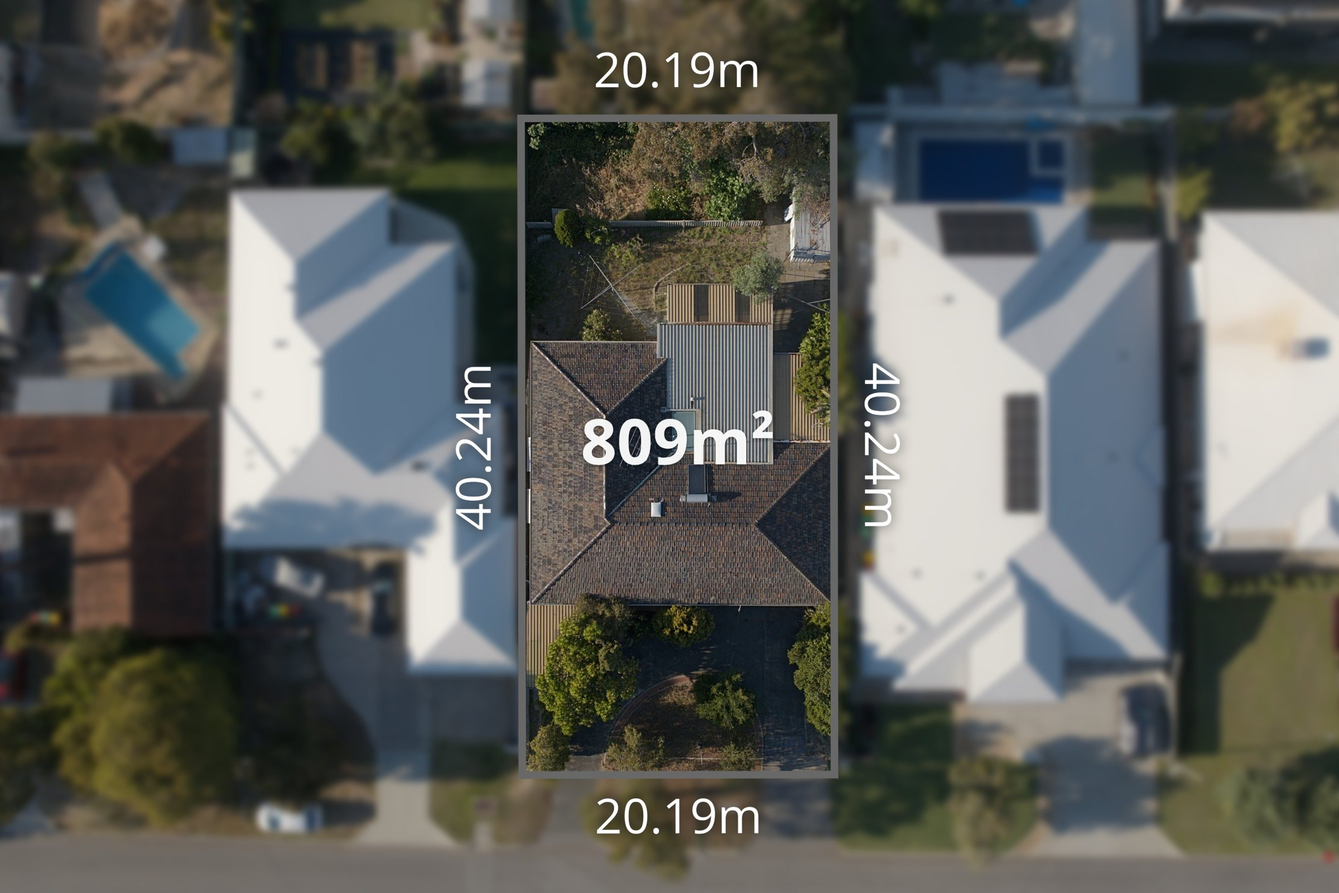
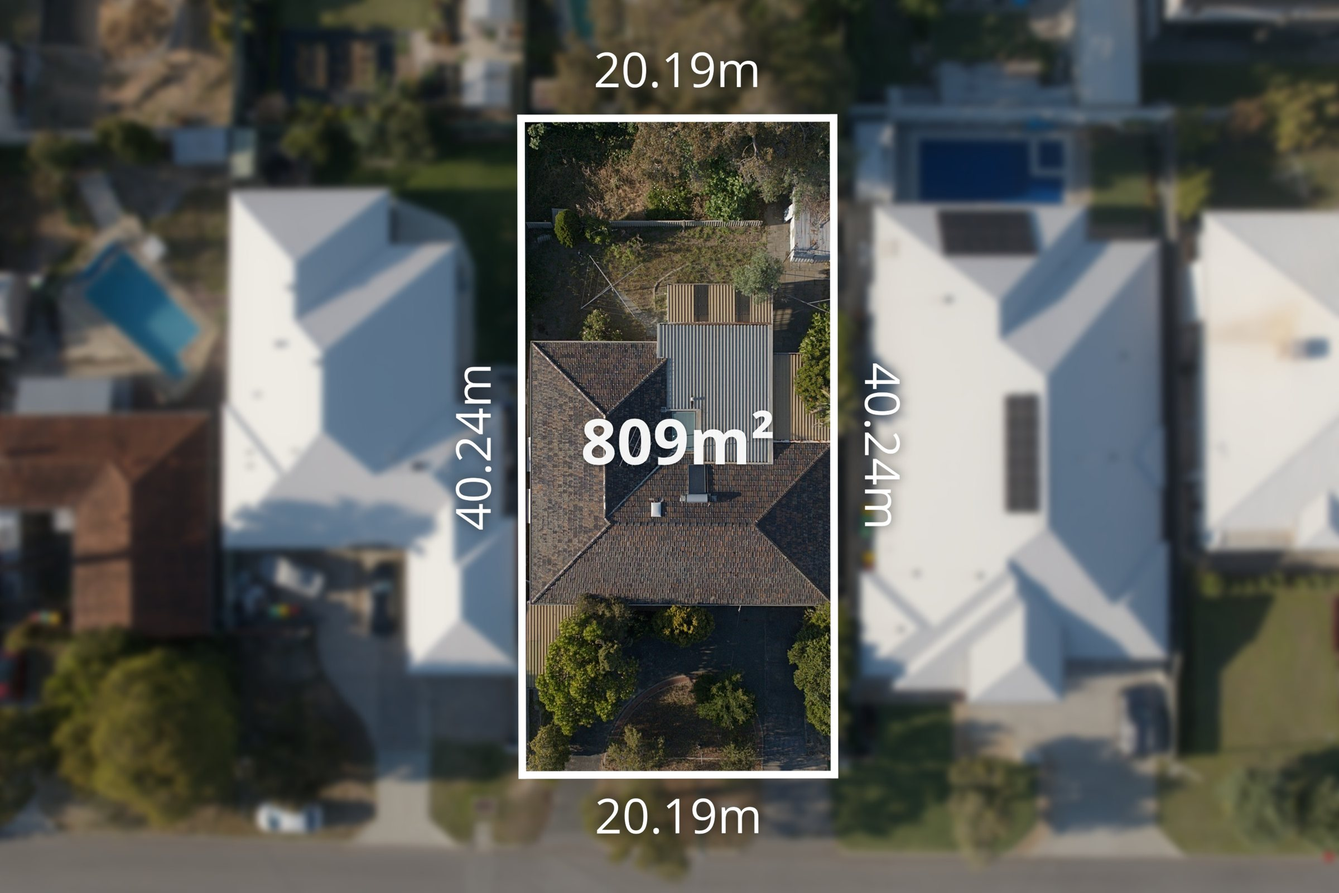
47 Attra St: both top-downs (road at bottom + wide) first, Simple style
Claude-Session: https://claude.ai/code/session_01A5qGg2LnJXxgSHoMQFvEEG

Changed region(s): [[0.375, 0.125, 0.625, 0.875]]

diff --git a/aerials/27-oct-2026/index.html b/aerials/27-oct-2026/index.html
@@ -5,4 +5,4 @@ body{margin:0;background:var(--bg);color:var(--fg);font:15px/1.45 system-ui,-app
 header,section{max-width:1400px;margin:auto;padding:18px 16px}h1{font-size:20px;margin:0}h2{font-size:17px;margin:0}header p,section p{color:var(--mut);margin:4px 0 0}
 .ed{margin-left:10px;color:var(--acc);font-weight:600;text-decoration:none}a{color:var(--acc)}
 .chk{margin-top:10px}.chk summary{cursor:pointer;color:var(--mut);font-weight:600}.chk iframe{width:100%;height:420px;border:0;border-radius:6px;margin-top:6px;background:#111}.g{display:grid;grid-template-columns:repeat(auto-fill,minmax(280px,1fr));gap:8px;margin-top:10px}.g img{width:100%;display:block;border-radius:4px}</style></head>
-<body><header><h1>Drone edits — Tue 27 Oct 2026</h1><p>Tap a photo for full size. <b>Edit</b> opens the job in the <a href="/pins/">editor</a> with all its pins and settings.</p></header><section><h2>218 North Beach Dr, Tuart Hill</h2><p>Stephanie Briers · Professionals · 13 photos <a class="ed" href="/pins/?open=27-oct-2026/218_north_beach_dr">Edit</a></p><div class="g"><a href="218_north_beach_dr/dji_fly_20261027_150818_0904_1793084705926_photo.jpg?v=1793133531" target="_blank"><img loading="lazy" src="218_north_beach_dr/t/dji_fly_20261027_150818_0904_1793084705926_photo.jpg?v=1793133531" alt=""></a><a href="218_north_beach_dr/dji_fly_20261027_150852_0906_1793084703012_photo.jpg?v=1793133531" target="_blank"><img loading="lazy" src="218_north_beach_dr/t/dji_fly_20261027_150852_0906_1793084703012_photo.jpg?v=1793133531" alt=""></a><a href="218_north_beach_dr/dji_fly_20261027_150910_0907_1793084701634_photo.jpg?v=1793133531" target="_blank"><img loading="lazy" src="218_north_beach_dr/t/dji_fly_20261027_150910_0907_1793084701634_photo.jpg?v=1793133531" alt=""></a><a href="218_north_beach_dr/dji_fly_20261027_150938_0908_1793084700212_photo.jpg?v=1793133531" target="_blank"><img loading="lazy" src="218_north_beach_dr/t/dji_fly_20261027_150938_0908_1793084700212_photo.jpg?v=1793133531" alt=""></a><a href="218_north_beach_dr/dji_fly_20261027_150948_0909_1793084698807_photo.jpg?v=1793133531" target="_blank"><img loading="lazy" src="218_north_beach_dr/t/dji_fly_20261027_150948_0909_1793084698807_photo.jpg?v=1793133531" alt=""></a><a href="218_north_beach_dr/dji_fly_20261027_151000_0910_1793084697396_photo.jpg?v=1793133531" target="_blank"><img loading="lazy" src="218_north_beach_dr/t/dji_fly_20261027_151000_0910_1793084697396_photo.jpg?v=1793133531" alt=""></a><a href="218_north_beach_dr/dji_fly_20261027_151032_0911_1793084695909_photo.jpg?v=1793133531" target="_blank"><img loading="lazy" src="218_north_beach_dr/t/dji_fly_20261027_151032_0911_1793084695909_photo.jpg?v=1793133531" alt=""></a><a href="218_north_beach_dr/dji_fly_20261027_151100_0912_1793084694451_photo.jpg?v=1793133531" target="_blank"><img loading="lazy" src="218_north_beach_dr/t/dji_fly_20261027_151100_0912_1793084694451_photo.jpg?v=1793133531" alt=""></a><a href="218_north_beach_dr/dji_fly_20261027_151114_0913_1793084693051_photo.jpg?v=1793133531" target="_blank"><img loading="lazy" src="218_north_beach_dr/t/dji_fly_20261027_151114_0913_1793084693051_photo.jpg?v=1793133531" alt=""></a><a href="218_north_beach_dr/dji_fly_20261027_151128_0914_1793084691646_photo.jpg?v=1793133531" target="_blank"><img loading="lazy" src="218_north_beach_dr/t/dji_fly_20261027_151128_0914_1793084691646_photo.jpg?v=1793133531" alt=""></a><a href="218_north_beach_dr/dji_fly_20261027_151138_0915_1793084690227_photo.jpg?v=1793133531" target="_blank"><img loading="lazy" src="218_north_beach_dr/t/dji_fly_20261027_151138_0915_1793084690227_photo.jpg?v=1793133531" alt=""></a><a href="218_north_beach_dr/dji_fly_20261027_151152_0916_1793084688823_photo.jpg?v=1793133531" target="_blank"><img loading="lazy" src="218_north_beach_dr/t/dji_fly_20261027_151152_0916_1793084688823_photo.jpg?v=1793133531" alt=""></a><a href="218_north_beach_dr/dji_fly_20261027_151200_0917_1793084687391_photo.jpg?v=1793133531" target="_blank"><img loading="lazy" src="218_north_beach_dr/t/dji_fly_20261027_151200_0917_1793084687391_photo.jpg?v=1793133531" alt=""></a></div></section><section><h2>41 St Kilda Rd, Balga</h2><p>Emma Scharf · Professionals · 9 photos <a class="ed" href="/pins/?open=27-oct-2026/41_st_kilda_rd">Edit</a></p><div class="g"><a href="41_st_kilda_rd/dji_fly_20261027_120152_0892_1793084725908_photo.jpg?v=1793133538" target="_blank"><img loading="lazy" src="41_st_kilda_rd/t/dji_fly_20261027_120152_0892_1793084725908_photo.jpg?v=1793133538" alt=""></a><a href="41_st_kilda_rd/dji_fly_20261027_120208_0893_1793084724563_photo.jpg?v=1793133538" target="_blank"><img loading="lazy" src="41_st_kilda_rd/t/dji_fly_20261027_120208_0893_1793084724563_photo.jpg?v=1793133538" alt=""></a><a href="41_st_kilda_rd/dji_fly_20261027_120238_0894_1793084723192_photo.jpg?v=1793133538" target="_blank"><img loading="lazy" src="41_st_kilda_rd/t/dji_fly_20261027_120238_0894_1793084723192_photo.jpg?v=1793133538" alt=""></a><a href="41_st_kilda_rd/dji_fly_20261027_120258_0895_1793084721818_photo.jpg?v=1793133538" target="_blank"><img loading="lazy" src="41_st_kilda_rd/t/dji_fly_20261027_120258_0895_1793084721818_photo.jpg?v=1793133538" alt=""></a><a href="41_st_kilda_rd/dji_fly_20261027_120318_0896_1793084720496_photo.jpg?v=1793133538" target="_blank"><img loading="lazy" src="41_st_kilda_rd/t/dji_fly_20261027_120318_0896_1793084720496_photo.jpg?v=1793133538" alt=""></a><a href="41_st_kilda_rd/dji_fly_20261027_120334_0897_1793084719060_photo.jpg?v=1793133538" target="_blank"><img loading="lazy" src="41_st_kilda_rd/t/dji_fly_20261027_120334_0897_1793084719060_photo.jpg?v=1793133538" alt=""></a><a href="41_st_kilda_rd/dji_fly_20261027_120400_0898_1793084717514_photo.jpg?v=1793133538" target="_blank"><img loading="lazy" src="41_st_kilda_rd/t/dji_fly_20261027_120400_0898_1793084717514_photo.jpg?v=1793133538" alt=""></a><a href="41_st_kilda_rd/dji_fly_20261027_120412_0899_1793084715431_photo.jpg?v=1793133538" target="_blank"><img loading="lazy" src="41_st_kilda_rd/t/dji_fly_20261027_120412_0899_1793084715431_photo.jpg?v=1793133538" alt=""></a><a href="41_st_kilda_rd/dji_fly_20261027_123924_0900_1793084713356_photo.jpg?v=1793133538" target="_blank"><img loading="lazy" src="41_st_kilda_rd/t/dji_fly_20261027_123924_0900_1793084713356_photo.jpg?v=1793133538" alt=""></a></div></section><section><h2>47 Attra St, Balcatta</h2><p>Jenny Fry · City to Surf · 5 photos (top-down first) <a class="ed" href="/pins/?open=27-oct-2026/47_attra_st">Edit</a><a class="ed" href="47_attra_st/check.html" target="_blank">Check map</a></p><div class="g"><a href="47_attra_st/DJI_20261027201407_0152_D.jpg?v=1793228187" target="_blank"><img loading="lazy" src="47_attra_st/t/DJI_20261027201407_0152_D.jpg?v=1793228187" alt=""></a><a href="47_attra_st/DJI_20261027201444_0154_D.jpg?v=1793228187" target="_blank"><img loading="lazy" src="47_attra_st/t/DJI_20261027201444_0154_D.jpg?v=1793228187" alt=""></a><a href="47_attra_st/DJI_20261027201539_0158_D.jpg?v=1793228187" target="_blank"><img loading="lazy" src="47_attra_st/t/DJI_20261027201539_0158_D.jpg?v=1793228187" alt=""></a><a href="47_attra_st/DJI_20261027201608_0160_D.jpg?v=1793228188" target="_blank"><img loading="lazy" src="47_attra_st/t/DJI_20261027201608_0160_D.jpg?v=1793228188" alt=""></a><a href="47_attra_st/satellite_map.jpg?v=1793228188" target="_blank"><img loading="lazy" src="47_attra_st/t/satellite_map.jpg?v=1793228188" alt=""></a></div><details class="chk" open><summary>Quick check — boundary + 15 pinned places</summary><iframe loading="lazy" src="47_attra_st/check.html?v=1793228189" title="Boundary and places check"></iframe></details></section><section><h2>4/17 Forest Hill Dr, Kingsley</h2><p>James Kennedy · Professionals Kingsley · 8 photos <a class="ed" href="/pins/?open=27-oct-2026/4_17_forest_hill_dr">Edit</a><a class="ed" href="4_17_forest_hill_dr/check.html" target="_blank">Check map</a></p><div class="g"><a href="4_17_forest_hill_dr/DJI_20261027190736_0143_D.jpg?v=1793228198" target="_blank"><img loading="lazy" src="4_17_forest_hill_dr/t/DJI_20261027190736_0143_D.jpg?v=1793228198" alt=""></a><a href="4_17_forest_hill_dr/DJI_20261027190751_0144_D.jpg?v=1793228198" target="_blank"><img loading="lazy" src="4_17_forest_hill_dr/t/DJI_20261027190751_0144_D.jpg?v=1793228198" alt=""></a><a href="4_17_forest_hill_dr/DJI_20261027190811_0145_D.jpg?v=1793228198" target="_blank"><img loading="lazy" src="4_17_forest_hill_dr/t/DJI_20261027190811_0145_D.jpg?v=1793228198" alt=""></a><a href="4_17_forest_hill_dr/DJI_20261027190831_0146_D.jpg?v=1793228198" target="_blank"><img loading="lazy" src="4_17_forest_hill_dr/t/DJI_20261027190831_0146_D.jpg?v=1793228198" alt=""></a><a href="4_17_forest_hill_dr/DJI_20261027190850_0147_D.jpg?v=1793228199" target="_blank"><img loading="lazy" src="4_17_forest_hill_dr/t/DJI_20261027190850_0147_D.jpg?v=1793228199" alt=""></a><a href="4_17_forest_hill_dr/DJI_20261027190910_0148_D.jpg?v=1793228199" target="_blank"><img loading="lazy" src="4_17_forest_hill_dr/t/DJI_20261027190910_0148_D.jpg?v=1793228199" alt=""></a><a href="4_17_forest_hill_dr/DJI_20261027190924_0149_D.jpg?v=1793228199" target="_blank"><img loading="lazy" src="4_17_forest_hill_dr/t/DJI_20261027190924_0149_D.jpg?v=1793228199" alt=""></a><a href="4_17_forest_hill_dr/DJI_20261027190945_0150_D.jpg?v=1793228199" target="_blank"><img loading="lazy" src="4_17_forest_hill_dr/t/DJI_20261027190945_0150_D.jpg?v=1793228199" alt=""></a></div><details class="chk" open><summary>Quick check — boundary + 19 pinned places</summary><iframe loading="lazy" src="4_17_forest_hill_dr/check.html?v=1793228201" title="Boundary and places check"></iframe></details></section><section><h2>18 Wonderboom Way, Forrestfield</h2><p>David Huynh · Harcourts · 8 photos (top-down first) <a class="ed" href="/pins/?open=27-oct-2026/18_wonderboom_way">Edit</a><a class="ed" href="18_wonderboom_way/check.html" target="_blank">Check map</a></p><div class="g"><a href="18_wonderboom_way/DJI_20261027153704_0025_D.jpg?v=1793228209" target="_blank"><img loading="lazy" src="18_wonderboom_way/t/DJI_20261027153704_0025_D.jpg?v=1793228209" alt=""></a><a href="18_wonderboom_way/DJI_20261027153728_0026_D.jpg?v=1793228210" target="_blank"><img loading="lazy" src="18_wonderboom_way/t/DJI_20261027153728_0026_D.jpg?v=1793228210" alt=""></a><a href="18_wonderboom_way/DJI_20261027153750_0027_D.jpg?v=1793228210" target="_blank"><img loading="lazy" src="18_wonderboom_way/t/DJI_20261027153750_0027_D.jpg?v=1793228210" alt=""></a><a href="18_wonderboom_way/DJI_20261027153805_0028_D.jpg?v=1793228210" target="_blank"><img loading="lazy" src="18_wonderboom_way/t/DJI_20261027153805_0028_D.jpg?v=1793228210" alt=""></a><a href="18_wonderboom_way/DJI_20261027153822_0029_D.jpg?v=1793228210" target="_blank"><img loading="lazy" src="18_wonderboom_way/t/DJI_20261027153822_0029_D.jpg?v=1793228210" alt=""></a><a href="18_wonderboom_way/DJI_20261027153841_0030_D.jpg?v=1793228211" target="_blank"><img loading="lazy" src="18_wonderboom_way/t/DJI_20261027153841_0030_D.jpg?v=1793228211" alt=""></a><a href="18_wonderboom_way/DJI_20261027153857_0031_D.jpg?v=1793228211" target="_blank"><img loading="lazy" src="18_wonderboom_way/t/DJI_20261027153857_0031_D.jpg?v=1793228211" alt=""></a><a href="18_wonderboom_way/DJI_20261027153910_0032_D.jpg?v=1793228211" target="_blank"><img loading="lazy" src="18_wonderboom_way/t/DJI_20261027153910_0032_D.jpg?v=1793228211" alt=""></a></div><details class="chk" open><summary>Quick check — boundary + 6 pinned places</summary><iframe loading="lazy" src="18_wonderboom_way/check.html?v=1793228213" title="Boundary and places check"></iframe></details></section><section><h2>209 Barridale Dr, Kingsley</h2><p>James Kennedy · Professionals Kingsley · 6 photos (top-down first) <a class="ed" href="/pins/?open=27-oct-2026/209_barridale_dr">Edit</a><a class="ed" href="209_barridale_dr/check.html" target="_blank">Check map</a></p><div class="g"><a href="209_barridale_dr/DJI_20261027164443_0137_D.jpg?v=1793228218" target="_blank"><img loading="lazy" src="209_barridale_dr/t/DJI_20261027164443_0137_D.jpg?v=1793228218" alt=""></a><a href="209_barridale_dr/DJI_20261027164541_0138_D.jpg?v=1793228219" target="_blank"><img loading="lazy" src="209_barridale_dr/t/DJI_20261027164541_0138_D.jpg?v=1793228219" alt=""></a><a href="209_barridale_dr/DJI_20261027164558_0139_D.jpg?v=1793228219" target="_blank"><img loading="lazy" src="209_barridale_dr/t/DJI_20261027164558_0139_D.jpg?v=1793228219" alt=""></a><a href="209_barridale_dr/DJI_20261027164625_0140_D.jpg?v=1793228219" target="_blank"><img loading="lazy" src="209_barridale_dr/t/DJI_20261027164625_0140_D.jpg?v=1793228219" alt=""></a><a href="209_barridale_dr/DJI_20261027164659_0141_D.jpg?v=1793228220" target="_blank"><img loading="lazy" src="209_barridale_dr/t/DJI_20261027164659_0141_D.jpg?v=1793228220" alt=""></a><a href="209_barridale_dr/DJI_20261027164724_0142_D.jpg?v=1793228220" target="_blank"><img loading="lazy" src="209_barridale_dr/t/DJI_20261027164724_0142_D.jpg?v=1793228220" alt=""></a></div><details class="chk" open><summary>Quick check — boundary + 14 pinned places</summary><iframe loading="lazy" src="209_barridale_dr/check.html?v=1793228221" title="Boundary and places check"></iframe></details></section></body></html>
+<body><header><h1>Drone edits — Tue 27 Oct 2026</h1><p>Tap a photo for full size. <b>Edit</b> opens the job in the <a href="/pins/">editor</a> with all its pins and settings.</p></header><section><h2>218 North Beach Dr, Tuart Hill</h2><p>Stephanie Briers · Professionals · 13 photos <a class="ed" href="/pins/?open=27-oct-2026/218_north_beach_dr">Edit</a></p><div class="g"><a href="218_north_beach_dr/dji_fly_20261027_150818_0904_1793084705926_photo.jpg?v=1793133531" target="_blank"><img loading="lazy" src="218_north_beach_dr/t/dji_fly_20261027_150818_0904_1793084705926_photo.jpg?v=1793133531" alt=""></a><a href="218_north_beach_dr/dji_fly_20261027_150852_0906_1793084703012_photo.jpg?v=1793133531" target="_blank"><img loading="lazy" src="218_north_beach_dr/t/dji_fly_20261027_150852_0906_1793084703012_photo.jpg?v=1793133531" alt=""></a><a href="218_north_beach_dr/dji_fly_20261027_150910_0907_1793084701634_photo.jpg?v=1793133531" target="_blank"><img loading="lazy" src="218_north_beach_dr/t/dji_fly_20261027_150910_0907_1793084701634_photo.jpg?v=1793133531" alt=""></a><a href="218_north_beach_dr/dji_fly_20261027_150938_0908_1793084700212_photo.jpg?v=1793133531" target="_blank"><img loading="lazy" src="218_north_beach_dr/t/dji_fly_20261027_150938_0908_1793084700212_photo.jpg?v=1793133531" alt=""></a><a href="218_north_beach_dr/dji_fly_20261027_150948_0909_1793084698807_photo.jpg?v=1793133531" target="_blank"><img loading="lazy" src="218_north_beach_dr/t/dji_fly_20261027_150948_0909_1793084698807_photo.jpg?v=1793133531" alt=""></a><a href="218_north_beach_dr/dji_fly_20261027_151000_0910_1793084697396_photo.jpg?v=1793133531" target="_blank"><img loading="lazy" src="218_north_beach_dr/t/dji_fly_20261027_151000_0910_1793084697396_photo.jpg?v=1793133531" alt=""></a><a href="218_north_beach_dr/dji_fly_20261027_151032_0911_1793084695909_photo.jpg?v=1793133531" target="_blank"><img loading="lazy" src="218_north_beach_dr/t/dji_fly_20261027_151032_0911_1793084695909_photo.jpg?v=1793133531" alt=""></a><a href="218_north_beach_dr/dji_fly_20261027_151100_0912_1793084694451_photo.jpg?v=1793133531" target="_blank"><img loading="lazy" src="218_north_beach_dr/t/dji_fly_20261027_151100_0912_1793084694451_photo.jpg?v=1793133531" alt=""></a><a href="218_north_beach_dr/dji_fly_20261027_151114_0913_1793084693051_photo.jpg?v=1793133531" target="_blank"><img loading="lazy" src="218_north_beach_dr/t/dji_fly_20261027_151114_0913_1793084693051_photo.jpg?v=1793133531" alt=""></a><a href="218_north_beach_dr/dji_fly_20261027_151128_0914_1793084691646_photo.jpg?v=1793133531" target="_blank"><img loading="lazy" src="218_north_beach_dr/t/dji_fly_20261027_151128_0914_1793084691646_photo.jpg?v=1793133531" alt=""></a><a href="218_north_beach_dr/dji_fly_20261027_151138_0915_1793084690227_photo.jpg?v=1793133531" target="_blank"><img loading="lazy" src="218_north_beach_dr/t/dji_fly_20261027_151138_0915_1793084690227_photo.jpg?v=1793133531" alt=""></a><a href="218_north_beach_dr/dji_fly_20261027_151152_0916_1793084688823_photo.jpg?v=1793133531" target="_blank"><img loading="lazy" src="218_north_beach_dr/t/dji_fly_20261027_151152_0916_1793084688823_photo.jpg?v=1793133531" alt=""></a><a href="218_north_beach_dr/dji_fly_20261027_151200_0917_1793084687391_photo.jpg?v=1793133531" target="_blank"><img loading="lazy" src="218_north_beach_dr/t/dji_fly_20261027_151200_0917_1793084687391_photo.jpg?v=1793133531" alt=""></a></div></section><section><h2>41 St Kilda Rd, Balga</h2><p>Emma Scharf · Professionals · 9 photos <a class="ed" href="/pins/?open=27-oct-2026/41_st_kilda_rd">Edit</a></p><div class="g"><a href="41_st_kilda_rd/dji_fly_20261027_120152_0892_1793084725908_photo.jpg?v=1793133538" target="_blank"><img loading="lazy" src="41_st_kilda_rd/t/dji_fly_20261027_120152_0892_1793084725908_photo.jpg?v=1793133538" alt=""></a><a href="41_st_kilda_rd/dji_fly_20261027_120208_0893_1793084724563_photo.jpg?v=1793133538" target="_blank"><img loading="lazy" src="41_st_kilda_rd/t/dji_fly_20261027_120208_0893_1793084724563_photo.jpg?v=1793133538" alt=""></a><a href="41_st_kilda_rd/dji_fly_20261027_120238_0894_1793084723192_photo.jpg?v=1793133538" target="_blank"><img loading="lazy" src="41_st_kilda_rd/t/dji_fly_20261027_120238_0894_1793084723192_photo.jpg?v=1793133538" alt=""></a><a href="41_st_kilda_rd/dji_fly_20261027_120258_0895_1793084721818_photo.jpg?v=1793133538" target="_blank"><img loading="lazy" src="41_st_kilda_rd/t/dji_fly_20261027_120258_0895_1793084721818_photo.jpg?v=1793133538" alt=""></a><a href="41_st_kilda_rd/dji_fly_20261027_120318_0896_1793084720496_photo.jpg?v=1793133538" target="_blank"><img loading="lazy" src="41_st_kilda_rd/t/dji_fly_20261027_120318_0896_1793084720496_photo.jpg?v=1793133538" alt=""></a><a href="41_st_kilda_rd/dji_fly_20261027_120334_0897_1793084719060_photo.jpg?v=1793133538" target="_blank"><img loading="lazy" src="41_st_kilda_rd/t/dji_fly_20261027_120334_0897_1793084719060_photo.jpg?v=1793133538" alt=""></a><a href="41_st_kilda_rd/dji_fly_20261027_120400_0898_1793084717514_photo.jpg?v=1793133538" target="_blank"><img loading="lazy" src="41_st_kilda_rd/t/dji_fly_20261027_120400_0898_1793084717514_photo.jpg?v=1793133538" alt=""></a><a href="41_st_kilda_rd/dji_fly_20261027_120412_0899_1793084715431_photo.jpg?v=1793133538" target="_blank"><img loading="lazy" src="41_st_kilda_rd/t/dji_fly_20261027_120412_0899_1793084715431_photo.jpg?v=1793133538" alt=""></a><a href="41_st_kilda_rd/dji_fly_20261027_123924_0900_1793084713356_photo.jpg?v=1793133538" target="_blank"><img loading="lazy" src="41_st_kilda_rd/t/dji_fly_20261027_123924_0900_1793084713356_photo.jpg?v=1793133538" alt=""></a></div></section><section><h2>4/17 Forest Hill Dr, Kingsley</h2><p>James Kennedy · Professionals Kingsley · 8 photos <a class="ed" href="/pins/?open=27-oct-2026/4_17_forest_hill_dr">Edit</a><a class="ed" href="4_17_forest_hill_dr/check.html" target="_blank">Check map</a></p><div class="g"><a href="4_17_forest_hill_dr/DJI_20261027190736_0143_D.jpg?v=1793228198" target="_blank"><img loading="lazy" src="4_17_forest_hill_dr/t/DJI_20261027190736_0143_D.jpg?v=1793228198" alt=""></a><a href="4_17_forest_hill_dr/DJI_20261027190751_0144_D.jpg?v=1793228198" target="_blank"><img loading="lazy" src="4_17_forest_hill_dr/t/DJI_20261027190751_0144_D.jpg?v=1793228198" alt=""></a><a href="4_17_forest_hill_dr/DJI_20261027190811_0145_D.jpg?v=1793228198" target="_blank"><img loading="lazy" src="4_17_forest_hill_dr/t/DJI_20261027190811_0145_D.jpg?v=1793228198" alt=""></a><a href="4_17_forest_hill_dr/DJI_20261027190831_0146_D.jpg?v=1793228198" target="_blank"><img loading="lazy" src="4_17_forest_hill_dr/t/DJI_20261027190831_0146_D.jpg?v=1793228198" alt=""></a><a href="4_17_forest_hill_dr/DJI_20261027190850_0147_D.jpg?v=1793228199" target="_blank"><img loading="lazy" src="4_17_forest_hill_dr/t/DJI_20261027190850_0147_D.jpg?v=1793228199" alt=""></a><a href="4_17_forest_hill_dr/DJI_20261027190910_0148_D.jpg?v=1793228199" target="_blank"><img loading="lazy" src="4_17_forest_hill_dr/t/DJI_20261027190910_0148_D.jpg?v=1793228199" alt=""></a><a href="4_17_forest_hill_dr/DJI_20261027190924_0149_D.jpg?v=1793228199" target="_blank"><img loading="lazy" src="4_17_forest_hill_dr/t/DJI_20261027190924_0149_D.jpg?v=1793228199" alt=""></a><a href="4_17_forest_hill_dr/DJI_20261027190945_0150_D.jpg?v=1793228199" target="_blank"><img loading="lazy" src="4_17_forest_hill_dr/t/DJI_20261027190945_0150_D.jpg?v=1793228199" alt=""></a></div><details class="chk" open><summary>Quick check — boundary + 19 pinned places</summary><iframe loading="lazy" src="4_17_forest_hill_dr/check.html?v=1793228201" title="Boundary and places check"></iframe></details></section><section><h2>18 Wonderboom Way, Forrestfield</h2><p>David Huynh · Harcourts · 8 photos (top-down first) <a class="ed" href="/pins/?open=27-oct-2026/18_wonderboom_way">Edit</a><a class="ed" href="18_wonderboom_way/check.html" target="_blank">Check map</a></p><div class="g"><a href="18_wonderboom_way/DJI_20261027153704_0025_D.jpg?v=1793228209" target="_blank"><img loading="lazy" src="18_wonderboom_way/t/DJI_20261027153704_0025_D.jpg?v=1793228209" alt=""></a><a href="18_wonderboom_way/DJI_20261027153728_0026_D.jpg?v=1793228210" target="_blank"><img loading="lazy" src="18_wonderboom_way/t/DJI_20261027153728_0026_D.jpg?v=1793228210" alt=""></a><a href="18_wonderboom_way/DJI_20261027153750_0027_D.jpg?v=1793228210" target="_blank"><img loading="lazy" src="18_wonderboom_way/t/DJI_20261027153750_0027_D.jpg?v=1793228210" alt=""></a><a href="18_wonderboom_way/DJI_20261027153805_0028_D.jpg?v=1793228210" target="_blank"><img loading="lazy" src="18_wonderboom_way/t/DJI_20261027153805_0028_D.jpg?v=1793228210" alt=""></a><a href="18_wonderboom_way/DJI_20261027153822_0029_D.jpg?v=1793228210" target="_blank"><img loading="lazy" src="18_wonderboom_way/t/DJI_20261027153822_0029_D.jpg?v=1793228210" alt=""></a><a href="18_wonderboom_way/DJI_20261027153841_0030_D.jpg?v=1793228211" target="_blank"><img loading="lazy" src="18_wonderboom_way/t/DJI_20261027153841_0030_D.jpg?v=1793228211" alt=""></a><a href="18_wonderboom_way/DJI_20261027153857_0031_D.jpg?v=1793228211" target="_blank"><img loading="lazy" src="18_wonderboom_way/t/DJI_20261027153857_0031_D.jpg?v=1793228211" alt=""></a><a href="18_wonderboom_way/DJI_20261027153910_0032_D.jpg?v=1793228211" target="_blank"><img loading="lazy" src="18_wonderboom_way/t/DJI_20261027153910_0032_D.jpg?v=1793228211" alt=""></a></div><details class="chk" open><summary>Quick check — boundary + 6 pinned places</summary><iframe loading="lazy" src="18_wonderboom_way/check.html?v=1793228213" title="Boundary and places check"></iframe></details></section><section><h2>209 Barridale Dr, Kingsley</h2><p>James Kennedy · Professionals Kingsley · 6 photos (top-down first) <a class="ed" href="/pins/?open=27-oct-2026/209_barridale_dr">Edit</a><a class="ed" href="209_barridale_dr/check.html" target="_blank">Check map</a></p><div class="g"><a href="209_barridale_dr/DJI_20261027164443_0137_D.jpg?v=1793228218" target="_blank"><img loading="lazy" src="209_barridale_dr/t/DJI_20261027164443_0137_D.jpg?v=1793228218" alt=""></a><a href="209_barridale_dr/DJI_20261027164541_0138_D.jpg?v=1793228219" target="_blank"><img loading="lazy" src="209_barridale_dr/t/DJI_20261027164541_0138_D.jpg?v=1793228219" alt=""></a><a href="209_barridale_dr/DJI_20261027164558_0139_D.jpg?v=1793228219" target="_blank"><img loading="lazy" src="209_barridale_dr/t/DJI_20261027164558_0139_D.jpg?v=1793228219" alt=""></a><a href="209_barridale_dr/DJI_20261027164625_0140_D.jpg?v=1793228219" target="_blank"><img loading="lazy" src="209_barridale_dr/t/DJI_20261027164625_0140_D.jpg?v=1793228219" alt=""></a><a href="209_barridale_dr/DJI_20261027164659_0141_D.jpg?v=1793228220" target="_blank"><img loading="lazy" src="209_barridale_dr/t/DJI_20261027164659_0141_D.jpg?v=1793228220" alt=""></a><a href="209_barridale_dr/DJI_20261027164724_0142_D.jpg?v=1793228220" target="_blank"><img loading="lazy" src="209_barridale_dr/t/DJI_20261027164724_0142_D.jpg?v=1793228220" alt=""></a></div><details class="chk" open><summary>Quick check — boundary + 14 pinned places</summary><iframe loading="lazy" src="209_barridale_dr/check.html?v=1793228221" title="Boundary and places check"></iframe></details></section><section><h2>47 Attra St, Balcatta</h2><p>Jenny Fry · City to Surf · 6 photos (top-downs first) <a class="ed" href="/pins/?open=27-oct-2026/47_attra_st">Edit</a><a class="ed" href="47_attra_st/check.html" target="_blank">Check map</a></p><div class="g"><a href="47_attra_st/DJI_20261027201407_0152_D.jpg?v=1793230412" target="_blank"><img loading="lazy" src="47_attra_st/t/DJI_20261027201407_0152_D.jpg?v=1793230412" alt=""></a><a href="47_attra_st/DJI_20261027201357_0151_D.jpg?v=1793230412" target="_blank"><img loading="lazy" src="47_attra_st/t/DJI_20261027201357_0151_D.jpg?v=1793230412" alt=""></a><a href="47_attra_st/DJI_20261027201444_0154_D.jpg?v=1793230412" target="_blank"><img loading="lazy" src="47_attra_st/t/DJI_20261027201444_0154_D.jpg?v=1793230412" alt=""></a><a href="47_attra_st/DJI_20261027201539_0158_D.jpg?v=1793230412" target="_blank"><img loading="lazy" src="47_attra_st/t/DJI_20261027201539_0158_D.jpg?v=1793230412" alt=""></a><a href="47_attra_st/DJI_20261027201608_0160_D.jpg?v=1793230412" target="_blank"><img loading="lazy" src="47_attra_st/t/DJI_20261027201608_0160_D.jpg?v=1793230412" alt=""></a><a href="47_attra_st/satellite_map.jpg?v=1793230412" target="_blank"><img loading="lazy" src="47_attra_st/t/satellite_map.jpg?v=1793230412" alt=""></a></div><details class="chk" open><summary>Quick check — boundary + 15 pinned places</summary><iframe loading="lazy" src="47_attra_st/check.html?v=1793230413" title="Boundary and places check"></iframe></details></section></body></html>

diff --git a/pins/index.html b/pins/index.html
@@ -894,7 +894,7 @@ const AGENCIES = {
   "green-belle": { name:"Green pins + belle (Shane Garrett, Cory Garrett, Megan Topham)", kind:"pin", color:"#22644E", house:{ type:"pin", w:176, h:281, mark:"belle", markR:.91 } },
   "flags-p":     { name:"Red flags + P pin (Professionals: Annique Woodford, Nic Pulvirenti, Stephanie Briers, Emma Scharf, James Kennedy; Armadale: Grant Wilson)", kind:"flag", color:"#FF2744", house:{ type:"pin", w:192, h:273, color:"#3C3C3C", mark:"p", markR:.85 } },
   "yellow":      { name:"Yellow labels + address (Gregory Swiatek, Shah Akbari)", kind:"ylab", color:"#F4DC00", house:{ type:"label" } },
-  "simple":      { name:"Simple — dark labels on thin lines, name + distance (28 Oct template)", kind:"simple", color:"#34373B", house:{ type:"pin", w:150, h:206, outline:true, color:"#FFFFFF" } },
+  "simple":      { name:"Simple — dark labels on thin lines, name + distance (28 Oct template)", line:"#FFFFFF", kind:"simple", color:"#34373B", house:{ type:"pin", w:150, h:206, outline:true, color:"#FFFFFF" } },
   "pill-r":      { name:"Navy labels + R pin (Mandie Cubeddu)",             kind:"pill", color:"#223454", house:{ type:"pin", w:82, h:104, stem:190, mark:"r", markR:.9 } },
   "realty-plus": { name:"Realty Plus — teal pins + board (Tracy Garbes, Leonie Adam)",     kind:"pin",  color:"#7ACCD6", scale:.88, house:{ type:"board", w:220, h:183, stem:170, mark:"realty" } },
   "peard":       { name:"Navy pins + Peard board (Wesley Majeks)",          kind:"pin",  color:"#0E2357", scale:.88, house:{ type:"board", w:285, h:111, stem:160, mark:"peard" } },
